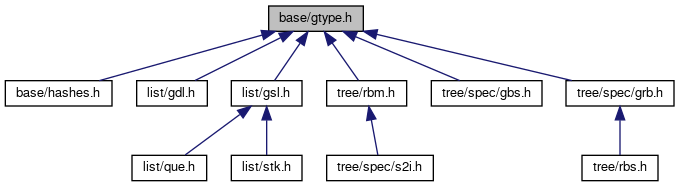
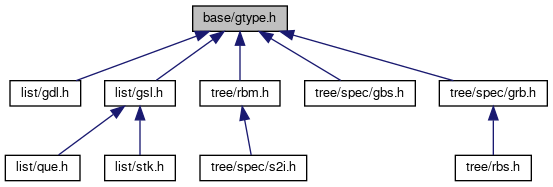
deploy: ffba623cdb1c75bb3f61fa38ab0ddf8491d3abb6

diff --git a/files.html b/files.html
@@ -71,27 +71,26 @@ $(function() {
 <tr id="row_0_" class="even"><td class="entry"><span style="width:0px;display:inline-block;">&#160;</span><span id="arr_0_" class="arrow" onclick="toggleFolder('0_')">&#9660;</span><span id="img_0_" class="iconfopen" onclick="toggleFolder('0_')">&#160;</span><a class="el" href="dir_e914ee4d4a44400f1fdb170cb4ead18a.html" target="_self">base</a></td><td class="desc"></td></tr>
 <tr id="row_0_0_"><td class="entry"><span style="width:32px;display:inline-block;">&#160;</span><a href="core_8h_source.html"><span class="icondoc"></span></a><b>core.h</b></td><td class="desc"></td></tr>
 <tr id="row_0_1_" class="even"><td class="entry"><span style="width:32px;display:inline-block;">&#160;</span><a href="gtype_8h_source.html"><span class="icondoc"></span></a><a class="el" href="gtype_8h.html" target="_self">gtype.h</a></td><td class="desc">Định nghĩa kiểu <a class="el" href="gtype_8h.html#a22df69f0a905ba3f8c833d29b2adfa46">gtype</a> và các thành phần bổ trợ </td></tr>
-<tr id="row_0_2_"><td class="entry"><span style="width:32px;display:inline-block;">&#160;</span><a href="hashes_8h_source.html"><span class="icondoc"></span></a><b>hashes.h</b></td><td class="desc"></td></tr>
-<tr id="row_1_" class="even"><td class="entry"><span style="width:0px;display:inline-block;">&#160;</span><span id="arr_1_" class="arrow" onclick="toggleFolder('1_')">&#9660;</span><span id="img_1_" class="iconfopen" onclick="toggleFolder('1_')">&#160;</span><a class="el" href="dir_48c61abad44e2f181b0a6a33afb59c17.html" target="_self">list</a></td><td class="desc"></td></tr>
-<tr id="row_1_0_"><td class="entry"><span style="width:16px;display:inline-block;">&#160;</span><span id="arr_1_0_" class="arrow" onclick="toggleFolder('1_0_')">&#9660;</span><span id="img_1_0_" class="iconfopen" onclick="toggleFolder('1_0_')">&#160;</span><a class="el" href="dir_c09f1dc5de9828d301e7449f52899a8b.html" target="_self">spec</a></td><td class="desc"></td></tr>
-<tr id="row_1_0_0_" class="even"><td class="entry"><span style="width:48px;display:inline-block;">&#160;</span><a href="idl_8h_source.html"><span class="icondoc"></span></a><a class="el" href="idl_8h.html" target="_self">idl.h</a></td><td class="desc">Kế thừa dllist cho kiểu int Int Double Linked List </td></tr>
-<tr id="row_1_0_1_"><td class="entry"><span style="width:48px;display:inline-block;">&#160;</span><a href="isl_8h_source.html"><span class="icondoc"></span></a><b>isl.h</b></td><td class="desc"></td></tr>
-<tr id="row_1_1_" class="even"><td class="entry"><span style="width:32px;display:inline-block;">&#160;</span><a href="dll_8h_source.html"><span class="icondoc"></span></a><a class="el" href="dll_8h.html" target="_self">dll.h</a></td><td class="desc">Triển khai danh sách móc nối kép chỉ bao gồm cấu trúc liên kết. Có thể kế thừa triển khai này để tạo danh sách chứa dữ liệu trong các nút. Generic double Linked List (DLL/dll) </td></tr>
-<tr id="row_1_2_"><td class="entry"><span style="width:32px;display:inline-block;">&#160;</span><a href="gdl_8h_source.html"><span class="icondoc"></span></a><a class="el" href="gdl_8h.html" target="_self">gdl.h</a></td><td class="desc">Triển khai danh sách móc nối kép cho kiểu gtype Kế thừa ::struct dllist </td></tr>
-<tr id="row_1_3_" class="even"><td class="entry"><span style="width:32px;display:inline-block;">&#160;</span><a href="gsl_8h_source.html"><span class="icondoc"></span></a><a class="el" href="gsl_8h.html" target="_self">gsl.h</a></td><td class="desc">Triển khai danh sách móc nối đơn cho gtype Kế thừa ::struct sllist </td></tr>
-<tr id="row_1_4_"><td class="entry"><span style="width:32px;display:inline-block;">&#160;</span><a href="que_8h_source.html"><span class="icondoc"></span></a><b>que.h</b></td><td class="desc"></td></tr>
-<tr id="row_1_5_" class="even"><td class="entry"><span style="width:32px;display:inline-block;">&#160;</span><a href="sll_8h_source.html"><span class="icondoc"></span></a><a class="el" href="sll_8h.html" target="_self">sll.h</a></td><td class="desc">Triển khai khái quát danh sách móc nối đơn chỉ bao gồm cấu trúc liên kết. Có thể kế thừa để lưu dữ liệu trong các nút </td></tr>
-<tr id="row_1_6_"><td class="entry"><span style="width:32px;display:inline-block;">&#160;</span><a href="stk_8h_source.html"><span class="icondoc"></span></a><b>stk.h</b></td><td class="desc"></td></tr>
-<tr id="row_2_" class="even"><td class="entry"><span style="width:0px;display:inline-block;">&#160;</span><span id="arr_2_" class="arrow" onclick="toggleFolder('2_')">&#9660;</span><span id="img_2_" class="iconfopen" onclick="toggleFolder('2_')">&#160;</span><a class="el" href="dir_70093cb3a9d1f8840af4e997fde867c3.html" target="_self">tree</a></td><td class="desc"></td></tr>
-<tr id="row_2_0_"><td class="entry"><span style="width:16px;display:inline-block;">&#160;</span><span id="arr_2_0_" class="arrow" onclick="toggleFolder('2_0_')">&#9660;</span><span id="img_2_0_" class="iconfopen" onclick="toggleFolder('2_0_')">&#160;</span><a class="el" href="dir_a12550118e5ce0504b5c7990660e61bc.html" target="_self">spec</a></td><td class="desc"></td></tr>
-<tr id="row_2_0_0_" class="even"><td class="entry"><span style="width:48px;display:inline-block;">&#160;</span><a href="gbs_8h_source.html"><span class="icondoc"></span></a><b>gbs.h</b></td><td class="desc"></td></tr>
-<tr id="row_2_0_1_"><td class="entry"><span style="width:48px;display:inline-block;">&#160;</span><a href="grb_8h_source.html"><span class="icondoc"></span></a><b>grb.h</b></td><td class="desc"></td></tr>
-<tr id="row_2_0_2_" class="even"><td class="entry"><span style="width:48px;display:inline-block;">&#160;</span><a href="s2i_8h_source.html"><span class="icondoc"></span></a><b>s2i.h</b></td><td class="desc"></td></tr>
-<tr id="row_2_1_"><td class="entry"><span style="width:32px;display:inline-block;">&#160;</span><a href="bn_8h_source.html"><span class="icondoc"></span></a><a class="el" href="bn_8h.html" target="_self">bn.h</a></td><td class="desc">Triển khai cây nhị phân khái quát chỉ bao gồm cấu trúc liên kết Có thể được kế thừa để lưu giữ liệu trong các nút </td></tr>
-<tr id="row_2_2_" class="even"><td class="entry"><span style="width:32px;display:inline-block;">&#160;</span><a href="bs_8h_source.html"><span class="icondoc"></span></a><b>bs.h</b></td><td class="desc"></td></tr>
-<tr id="row_2_3_"><td class="entry"><span style="width:32px;display:inline-block;">&#160;</span><a href="rb_8h_source.html"><span class="icondoc"></span></a><b>rb.h</b></td><td class="desc"></td></tr>
-<tr id="row_2_4_" class="even"><td class="entry"><span style="width:32px;display:inline-block;">&#160;</span><a href="rbm_8h_source.html"><span class="icondoc"></span></a><a class="el" href="rbm_8h.html" target="_self">rbm.h</a></td><td class="desc">Ánh xạ khóa=&gt;giá trị khái quát dựa trên cây đỏ-đen </td></tr>
-<tr id="row_2_5_"><td class="entry"><span style="width:32px;display:inline-block;">&#160;</span><a href="rbs_8h_source.html"><span class="icondoc"></span></a><b>rbs.h</b></td><td class="desc"></td></tr>
+<tr id="row_1_"><td class="entry"><span style="width:0px;display:inline-block;">&#160;</span><span id="arr_1_" class="arrow" onclick="toggleFolder('1_')">&#9660;</span><span id="img_1_" class="iconfopen" onclick="toggleFolder('1_')">&#160;</span><a class="el" href="dir_48c61abad44e2f181b0a6a33afb59c17.html" target="_self">list</a></td><td class="desc"></td></tr>
+<tr id="row_1_0_" class="even"><td class="entry"><span style="width:16px;display:inline-block;">&#160;</span><span id="arr_1_0_" class="arrow" onclick="toggleFolder('1_0_')">&#9660;</span><span id="img_1_0_" class="iconfopen" onclick="toggleFolder('1_0_')">&#160;</span><a class="el" href="dir_c09f1dc5de9828d301e7449f52899a8b.html" target="_self">spec</a></td><td class="desc"></td></tr>
+<tr id="row_1_0_0_"><td class="entry"><span style="width:48px;display:inline-block;">&#160;</span><a href="idl_8h_source.html"><span class="icondoc"></span></a><a class="el" href="idl_8h.html" target="_self">idl.h</a></td><td class="desc">Kế thừa dllist cho kiểu int Int Double Linked List </td></tr>
+<tr id="row_1_0_1_" class="even"><td class="entry"><span style="width:48px;display:inline-block;">&#160;</span><a href="isl_8h_source.html"><span class="icondoc"></span></a><b>isl.h</b></td><td class="desc"></td></tr>
+<tr id="row_1_1_"><td class="entry"><span style="width:32px;display:inline-block;">&#160;</span><a href="dll_8h_source.html"><span class="icondoc"></span></a><a class="el" href="dll_8h.html" target="_self">dll.h</a></td><td class="desc">Triển khai danh sách móc nối kép chỉ bao gồm cấu trúc liên kết. Có thể kế thừa triển khai này để tạo danh sách chứa dữ liệu trong các nút. Generic double Linked List (DLL/dll) </td></tr>
+<tr id="row_1_2_" class="even"><td class="entry"><span style="width:32px;display:inline-block;">&#160;</span><a href="gdl_8h_source.html"><span class="icondoc"></span></a><a class="el" href="gdl_8h.html" target="_self">gdl.h</a></td><td class="desc">Triển khai danh sách móc nối kép cho kiểu gtype Kế thừa ::struct dllist </td></tr>
+<tr id="row_1_3_"><td class="entry"><span style="width:32px;display:inline-block;">&#160;</span><a href="gsl_8h_source.html"><span class="icondoc"></span></a><a class="el" href="gsl_8h.html" target="_self">gsl.h</a></td><td class="desc">Triển khai danh sách móc nối đơn cho gtype Kế thừa ::struct sllist </td></tr>
+<tr id="row_1_4_" class="even"><td class="entry"><span style="width:32px;display:inline-block;">&#160;</span><a href="que_8h_source.html"><span class="icondoc"></span></a><b>que.h</b></td><td class="desc"></td></tr>
+<tr id="row_1_5_"><td class="entry"><span style="width:32px;display:inline-block;">&#160;</span><a href="sll_8h_source.html"><span class="icondoc"></span></a><a class="el" href="sll_8h.html" target="_self">sll.h</a></td><td class="desc">Triển khai khái quát danh sách móc nối đơn chỉ bao gồm cấu trúc liên kết. Có thể kế thừa để lưu dữ liệu trong các nút </td></tr>
+<tr id="row_1_6_" class="even"><td class="entry"><span style="width:32px;display:inline-block;">&#160;</span><a href="stk_8h_source.html"><span class="icondoc"></span></a><b>stk.h</b></td><td class="desc"></td></tr>
+<tr id="row_2_"><td class="entry"><span style="width:0px;display:inline-block;">&#160;</span><span id="arr_2_" class="arrow" onclick="toggleFolder('2_')">&#9660;</span><span id="img_2_" class="iconfopen" onclick="toggleFolder('2_')">&#160;</span><a class="el" href="dir_70093cb3a9d1f8840af4e997fde867c3.html" target="_self">tree</a></td><td class="desc"></td></tr>
+<tr id="row_2_0_" class="even"><td class="entry"><span style="width:16px;display:inline-block;">&#160;</span><span id="arr_2_0_" class="arrow" onclick="toggleFolder('2_0_')">&#9660;</span><span id="img_2_0_" class="iconfopen" onclick="toggleFolder('2_0_')">&#160;</span><a class="el" href="dir_a12550118e5ce0504b5c7990660e61bc.html" target="_self">spec</a></td><td class="desc"></td></tr>
+<tr id="row_2_0_0_"><td class="entry"><span style="width:48px;display:inline-block;">&#160;</span><a href="gbs_8h_source.html"><span class="icondoc"></span></a><b>gbs.h</b></td><td class="desc"></td></tr>
+<tr id="row_2_0_1_" class="even"><td class="entry"><span style="width:48px;display:inline-block;">&#160;</span><a href="grb_8h_source.html"><span class="icondoc"></span></a><b>grb.h</b></td><td class="desc"></td></tr>
+<tr id="row_2_0_2_"><td class="entry"><span style="width:48px;display:inline-block;">&#160;</span><a href="s2i_8h_source.html"><span class="icondoc"></span></a><b>s2i.h</b></td><td class="desc"></td></tr>
+<tr id="row_2_1_" class="even"><td class="entry"><span style="width:32px;display:inline-block;">&#160;</span><a href="bn_8h_source.html"><span class="icondoc"></span></a><a class="el" href="bn_8h.html" target="_self">bn.h</a></td><td class="desc">Triển khai cây nhị phân khái quát chỉ bao gồm cấu trúc liên kết Có thể được kế thừa để lưu giữ liệu trong các nút </td></tr>
+<tr id="row_2_2_"><td class="entry"><span style="width:32px;display:inline-block;">&#160;</span><a href="bs_8h_source.html"><span class="icondoc"></span></a><b>bs.h</b></td><td class="desc"></td></tr>
+<tr id="row_2_3_" class="even"><td class="entry"><span style="width:32px;display:inline-block;">&#160;</span><a href="rb_8h_source.html"><span class="icondoc"></span></a><b>rb.h</b></td><td class="desc"></td></tr>
+<tr id="row_2_4_"><td class="entry"><span style="width:32px;display:inline-block;">&#160;</span><a href="rbm_8h_source.html"><span class="icondoc"></span></a><a class="el" href="rbm_8h.html" target="_self">rbm.h</a></td><td class="desc">Ánh xạ khóa=&gt;giá trị khái quát dựa trên cây đỏ-đen </td></tr>
+<tr id="row_2_5_" class="even"><td class="entry"><span style="width:32px;display:inline-block;">&#160;</span><a href="rbs_8h_source.html"><span class="icondoc"></span></a><b>rbs.h</b></td><td class="desc"></td></tr>
 </table>
 </div><!-- directory -->
 </div><!-- contents -->

diff --git a/gtype_8h.html b/gtype_8h.html
@@ -95,17 +95,16 @@ Kèm theo graph phụ thuộc cho gtype.h:</div>
 <div class="dyncontent">
 <div class="center"><img src="gtype_8h__dep__incl.png" border="0" usemap="#abase_2gtype_8hdep" alt=""/></div>
 <map name="abase_2gtype_8hdep" id="abase_2gtype_8hdep">
-<area shape="rect" title="Định nghĩa kiểu gtype và các thành phần bổ trợ." alt="" coords="269,5,363,32"/>
-<area shape="rect" href="hashes_8h_source.html" title=" " alt="" coords="5,80,112,107"/>
-<area shape="rect" href="gdl_8h.html" title="Triển khai danh sách móc nối kép cho kiểu gtype Kế thừa ::struct dllist." alt="" coords="137,80,207,107"/>
-<area shape="rect" href="gsl_8h.html" title="Triển khai danh sách móc nối đơn cho gtype Kế thừa ::struct sllist." alt="" coords="231,80,302,107"/>
-<area shape="rect" href="rbm_8h.html" title="Ánh xạ khóa=&gt;giá trị khái quát dựa trên cây đỏ&#45;đen." alt="" coords="327,80,407,107"/>
-<area shape="rect" href="gbs_8h_source.html" title=" " alt="" coords="431,80,542,107"/>
-<area shape="rect" href="grb_8h_source.html" title=" " alt="" coords="566,80,674,107"/>
-<area shape="rect" href="que_8h_source.html" title=" " alt="" coords="132,155,207,181"/>
-<area shape="rect" href="stk_8h_source.html" title=" " alt="" coords="231,155,302,181"/>
-<area shape="rect" href="s2i_8h_source.html" title=" " alt="" coords="327,155,433,181"/>
-<area shape="rect" href="rbs_8h_source.html" title=" " alt="" coords="582,155,658,181"/>
+<area shape="rect" title="Định nghĩa kiểu gtype và các thành phần bổ trợ." alt="" coords="193,5,287,32"/>
+<area shape="rect" href="gdl_8h.html" title="Triển khai danh sách móc nối kép cho kiểu gtype Kế thừa ::struct dllist." alt="" coords="10,80,81,107"/>
+<area shape="rect" href="gsl_8h.html" title="Triển khai danh sách móc nối đơn cho gtype Kế thừa ::struct sllist." alt="" coords="105,80,175,107"/>
+<area shape="rect" href="rbm_8h.html" title="Ánh xạ khóa=&gt;giá trị khái quát dựa trên cây đỏ&#45;đen." alt="" coords="200,80,280,107"/>
+<area shape="rect" href="gbs_8h_source.html" title=" " alt="" coords="305,80,415,107"/>
+<area shape="rect" href="grb_8h_source.html" title=" " alt="" coords="439,80,547,107"/>
+<area shape="rect" href="que_8h_source.html" title=" " alt="" coords="5,155,80,181"/>
+<area shape="rect" href="stk_8h_source.html" title=" " alt="" coords="105,155,175,181"/>
+<area shape="rect" href="s2i_8h_source.html" title=" " alt="" coords="200,155,307,181"/>
+<area shape="rect" href="rbs_8h_source.html" title=" " alt="" coords="455,155,531,181"/>
 </map>
 </div>
 </div>
